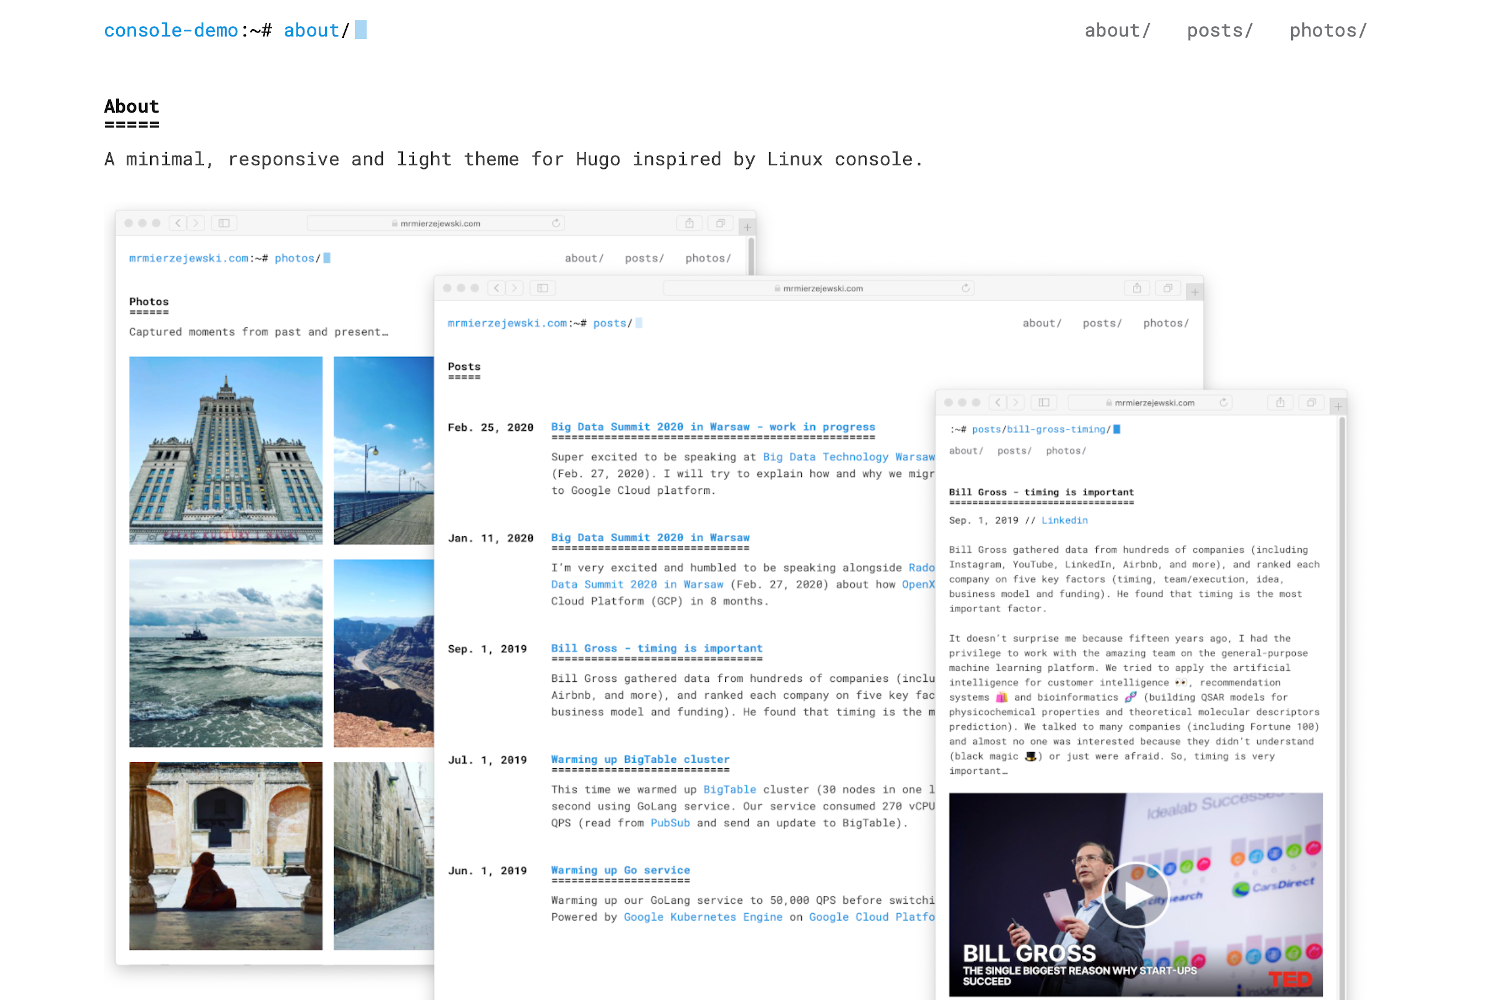
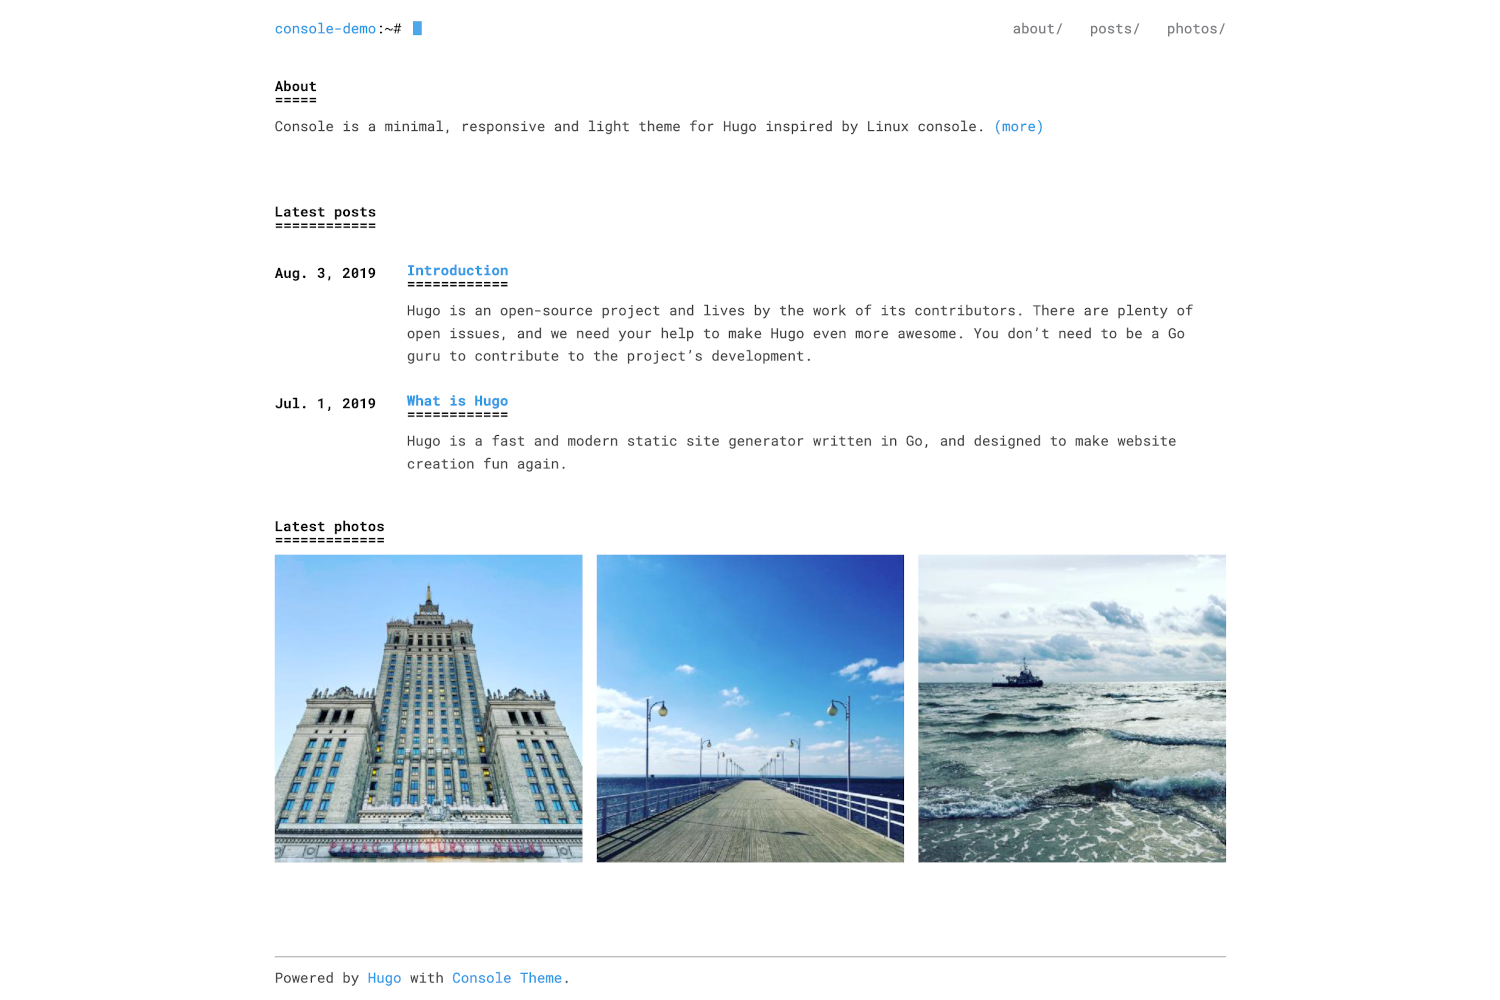
home page: add home page with the latest posts and photos screenshots: update screenshot with new home page

diff --git a/static/hugo-theme-console/css/console.css b/static/hugo-theme-console/css/console.css
@@ -153,14 +153,6 @@ strong {
     margin-right: 30px;
 }
 
-.post-list-date {
-    float: left;
-    font-weight: bold;
-    width: 150px;
-    height: 120px;
-    margin-top: 21px;
-}
-
 figure {
     margin-top: 15px;
     margin-bottom: 15px;
@@ -201,6 +193,28 @@ figure {
     margin-bottom: 10px;
 }
 
+.posts-list {
+    position: relative;
+    padding-left: 150px;
+    top: 0;
+    margin-top: 21px;
+}
+
+.post h1 {
+    padding-top: 0;
+}
+
+.posts-list .date {
+    display: inline-block;
+    position: absolute;
+    left: 0px;
+    width: 150px;
+    height: 100%;
+    z-index: 400;
+    font-weight: bold;
+    padding-top: 3px;
+}
+
 @media only screen and (max-width: 850px) {
     .site-name {
         width: 2ch;
@@ -236,10 +250,30 @@ figure {
         margin-left: 30px;
         margin-right: 30px;
     }
-    .post-list-date {
-        width: 0;
-        overflow: hidden;
+
+    .posts-list {
+        position: relative;
+        padding-left: 0;
+        top: 0;
+        margin-top: 21px;
     }
+    
+    .post h1 {
+        padding-top: 0;
+    }
+    
+    .posts-list .date {
+        display: inline-block;
+        position: absolute;
+        left: 0px;
+        width: 150px;
+        height: 100%;
+        z-index: 400;
+        font-weight: bold;
+        padding-top: 3px;
+        display: none;
+    }
+    
 
     .footer {
         margin-top: 50px;

diff --git a/layouts/index.html b/layouts/index.html
@@ -1,7 +1,40 @@
-<head> 
-    {{ range .Site.Params.navlinks }}
-    {{ if .home }}
-    <meta http-equiv="refresh" content="0; URL={{ .url | absURL }}" />
+{{ define "main" }}
+
+<h1>About</h1>
+
+<p>
+Console is a minimal, responsive and light theme for Hugo inspired by Linux console.  <a href="/about/">(more)</a>
+</p>
+<br/>
+
+<h1>Latest posts</h1>
+
+<div class="posts-list">
+{{ with .Site.GetPage "/posts" }}
+    {{ range first 3 ((where .Pages ".Params.private" "!=" true) sort .Data.Pages "Date" "desc")}}
+        <div class="post">
+            <div class="date">{{ .PublishDate.Format "Jan. 2, 2006" }}</div>    
+            <h1><a href="{{ .Permalink }}" title="{{ .Title }}">{{ .Title }}</a></h1>
+            {{ .Summary }}
+        </div>    
     {{ end }}
+{{ end }}
+</div>
+
+<h1>Latest photos</h1>
+
+<div class="image-grid">
+{{ with .Site.GetPage "/photos" }}
+    {{ range first 3 (sort .Data.Pages "Date" "desc")}}
+        <a href="{{ .Permalink }}" title="{{ .Title }}">
+        {{ $image := .Page.Resources.GetMatch .Params.image }}
+        {{ with $image }}
+            {{ $thumb := .Resize "400x" }}
+            <img src="{{ $thumb.RelPermalink }}" alt="{{ .Title }}" class="img-responsive">
+        {{end}}
+        </a>
     {{ end }}
-</head>
+{{ end }}
+</div>
+
+{{ end }}

diff --git a/layouts/_default/list.html b/layouts/_default/list.html
@@ -3,12 +3,16 @@
 <br/>
 {{ .Content }}
 
+<div class="posts-list">
 {{ range sort .Data.Pages "Date" "desc" }}
     {{ if not .Params.private }}
-        <div class="post-list-date">{{ .PublishDate.Format "Jan. 2, 2006" }}</div>    
-        <h1><a href="{{ .Permalink }}" title="{{ .Title }}">{{ .Title }}</a></h1>
-        {{ .Summary }}
+        <div class="post">
+            <div class="date">{{ .PublishDate.Format "Jan. 2, 2006" }}</div>    
+            <h1><a href="{{ .Permalink }}" title="{{ .Title }}">{{ .Title }}</a></h1>
+            {{ .Summary }}
+        </div>
     {{ end }}
 {{ end }}
+</div>
 
 {{ end }}

diff --git a/README.md b/README.md
@@ -26,7 +26,7 @@ theme = "hugo-theme-console"
 
 ## Example Site
 
-If you want to run the example site, please run the following command:
+To run the example site, please type the following command:
 
 ```
 makefile hugo-server
